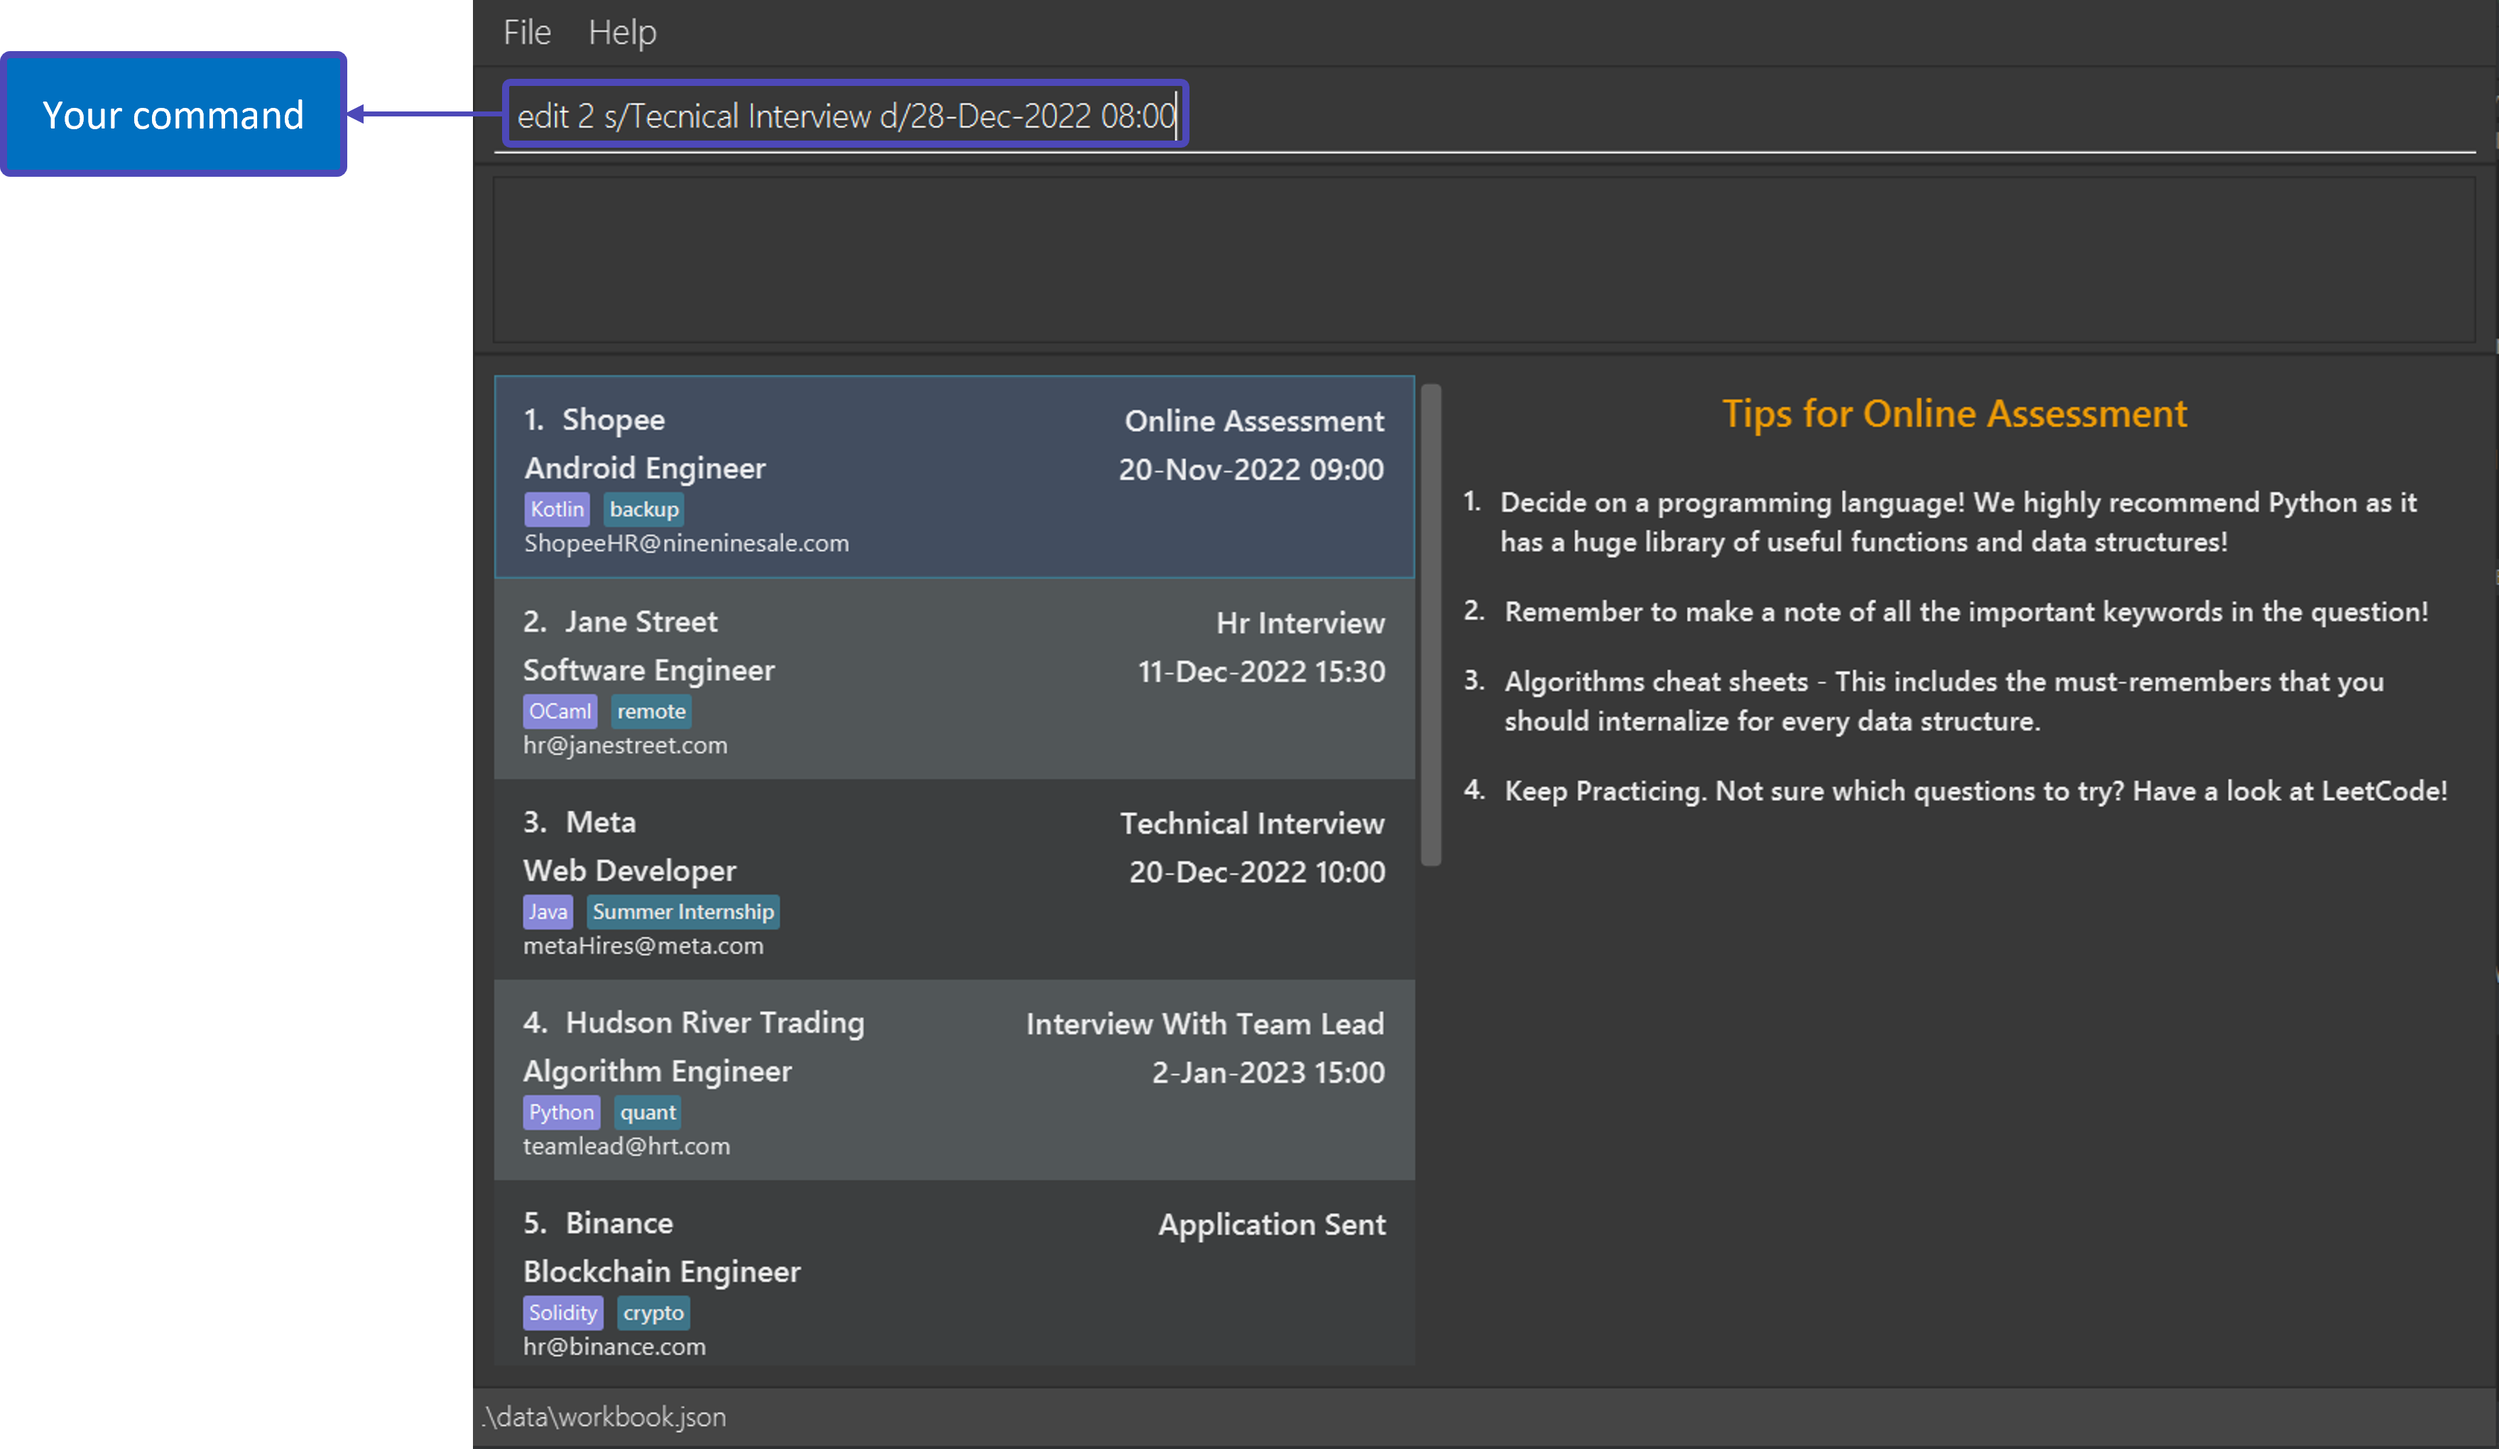
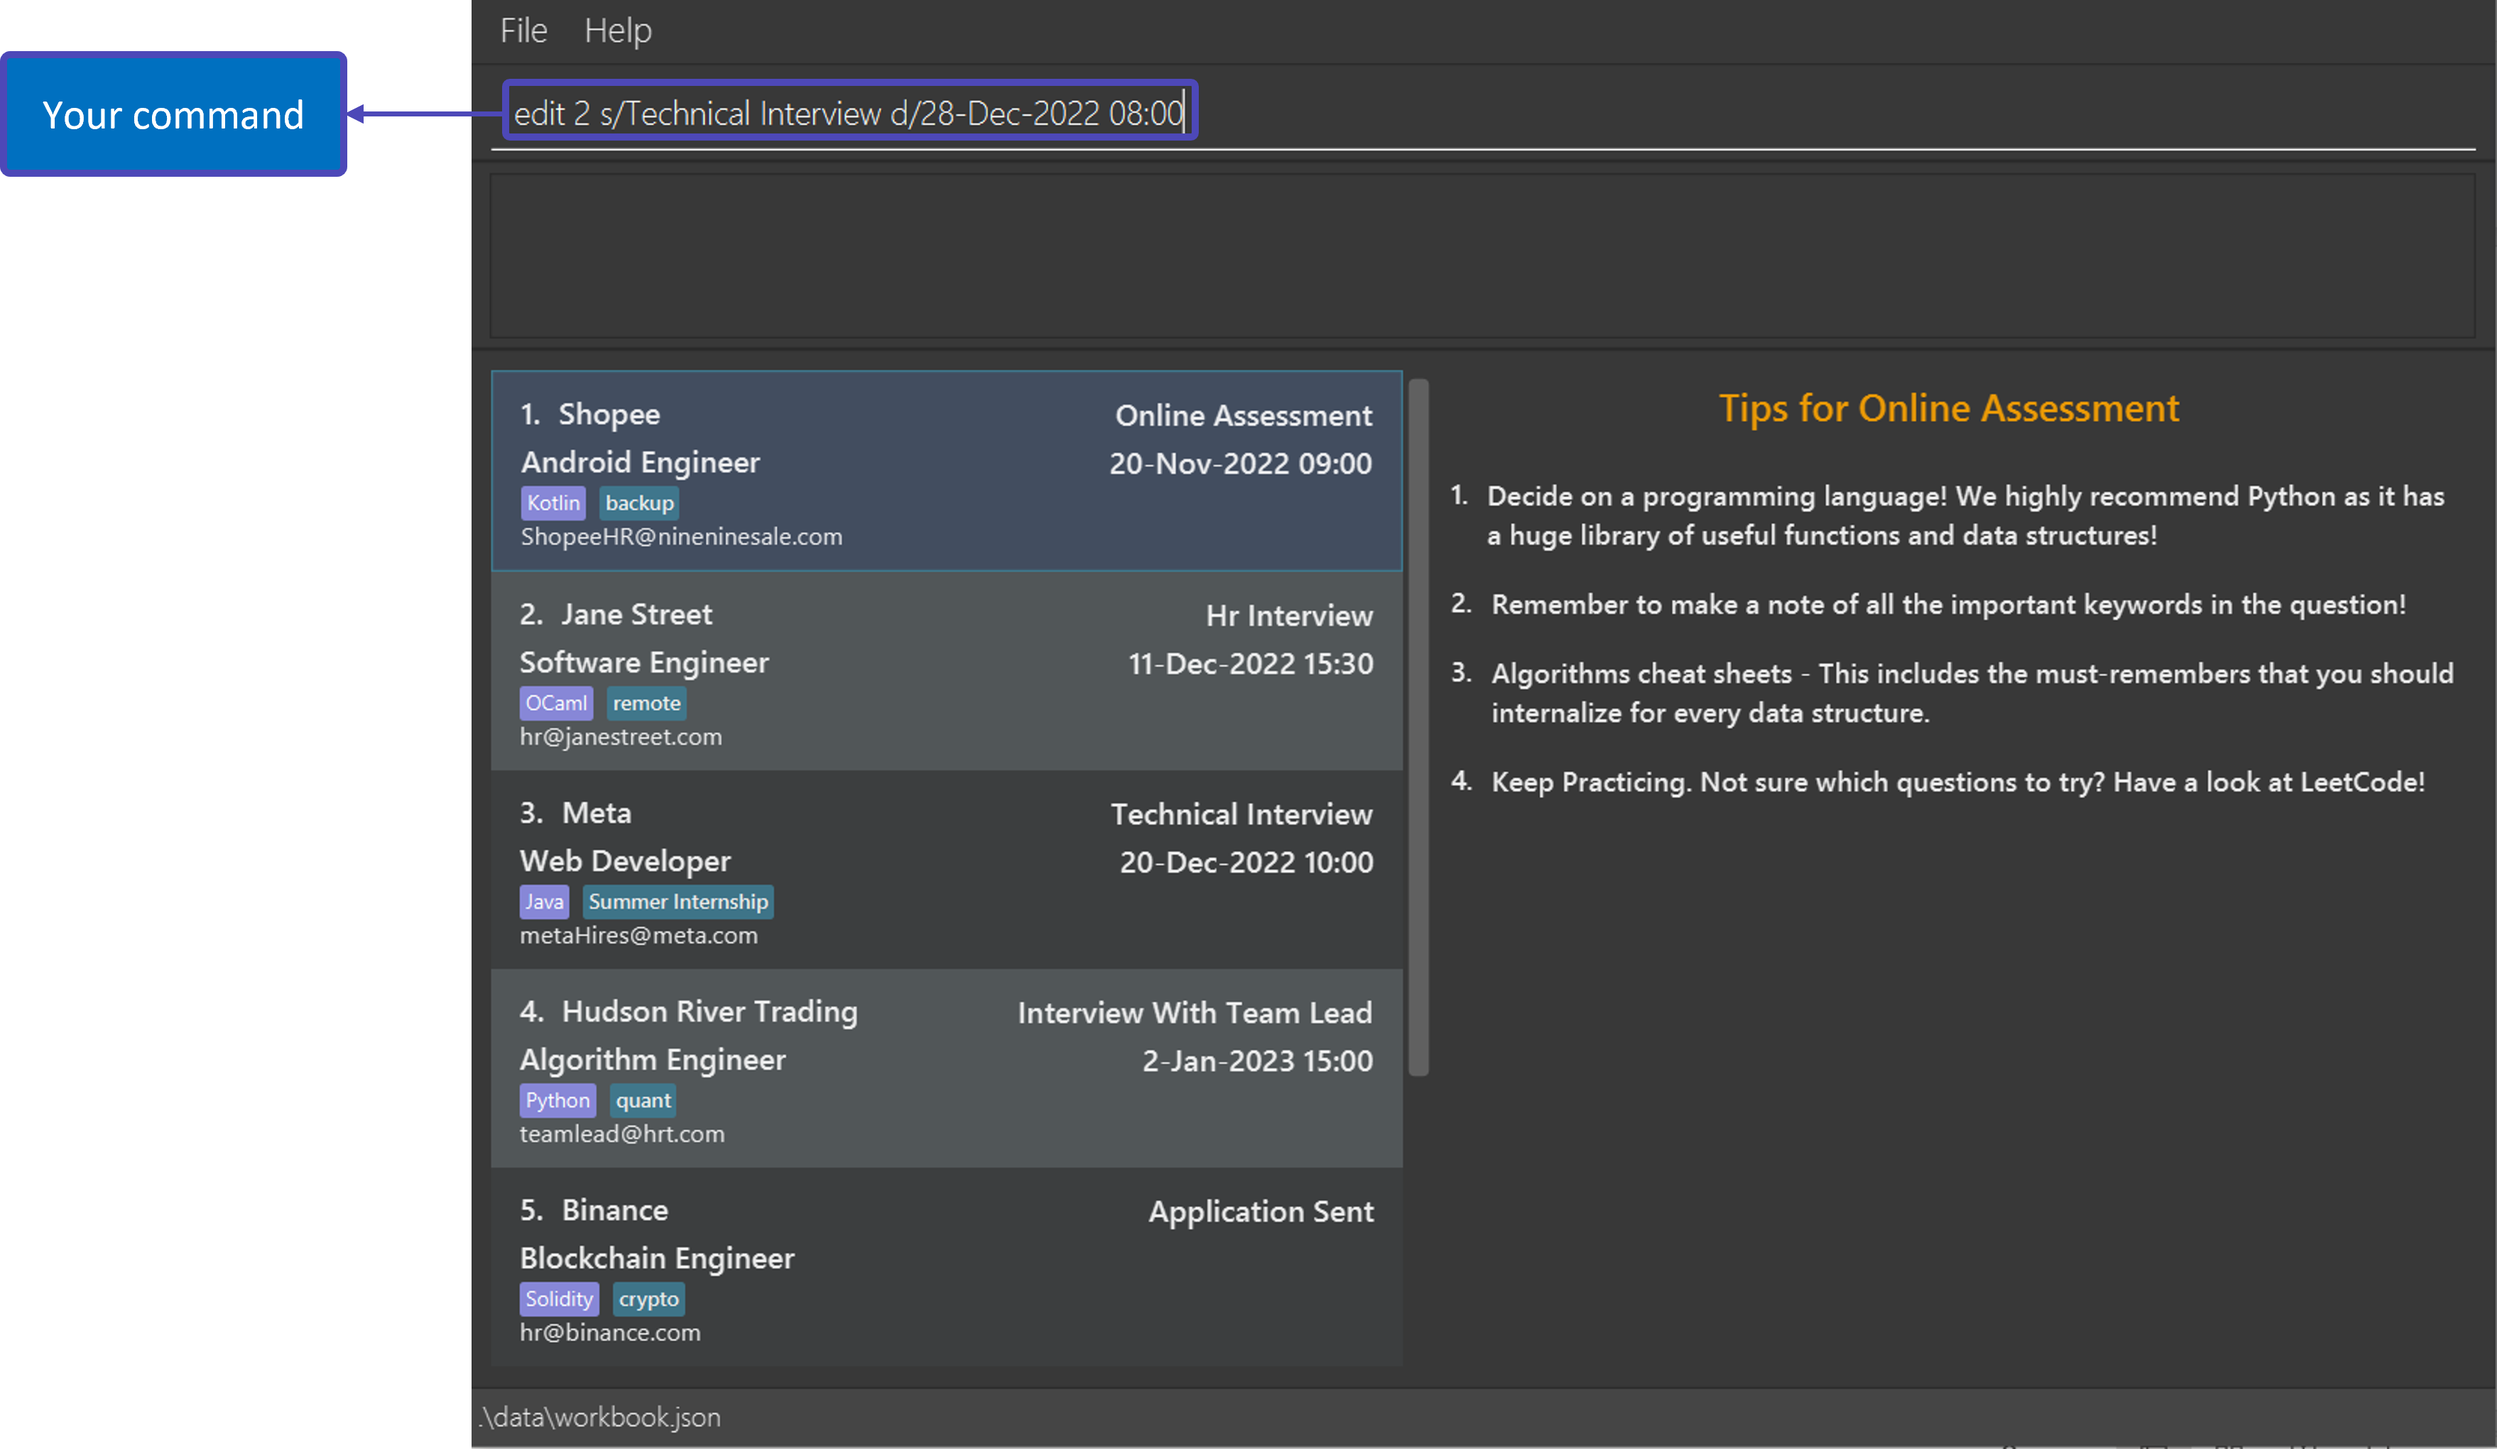
Fix `edit` section in UG

diff --git a/docs/UserGuide.md b/docs/UserGuide.md
@@ -191,7 +191,7 @@ What you will see:
 
 |                                                  |
 |:------------------------------------------------:|
-| ![AddCommandResult](images/AddCommandResult.png) ||
+| ![AddCommandResult](images/AddCommandResult.png) |
 
 
 <div markdown="block" class="alert alert-success">
@@ -222,7 +222,7 @@ Format: `edit INDEX [c/COMPANY] [r/ROLE] [s/STAGE] [d/DATETIME] [e/COMPANY_EMAIL
   * Within the number range of your list of internship applications.
 * At least one of the optional fields **must** be provided.
 
-Example: `edit 2 s/Tecnical Interview d/28-Dec-2022 08:00`
+Example: `edit 2 s/Technical Interview d/28-Dec-2022 08:00`
 
 What you'll see before and after executing the command: <br>
 
